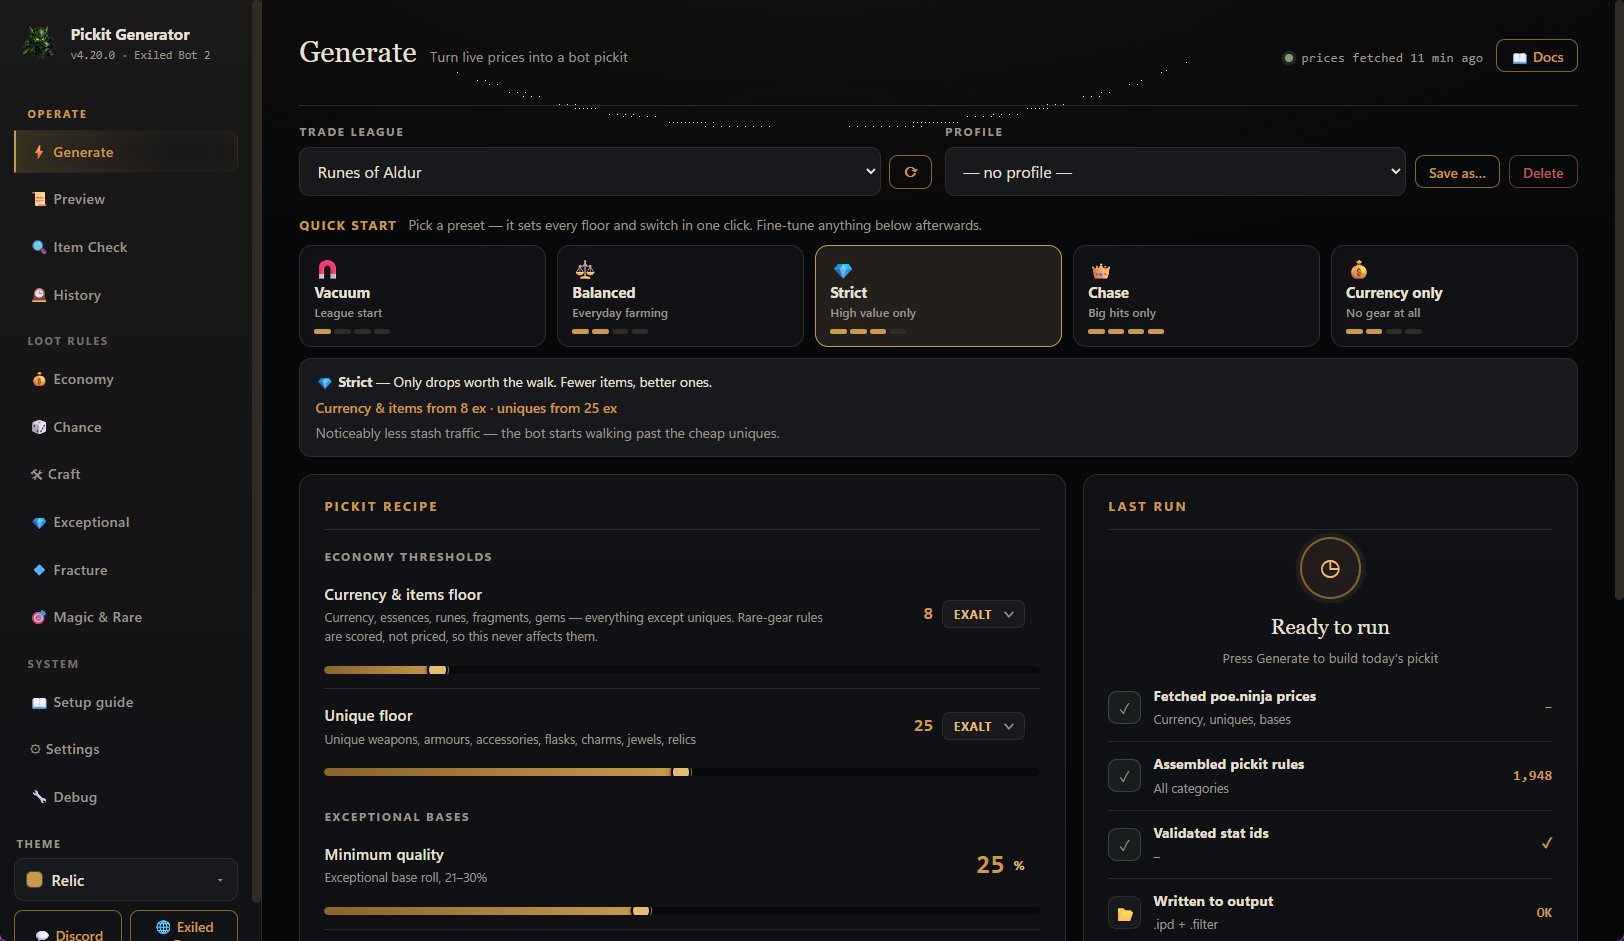
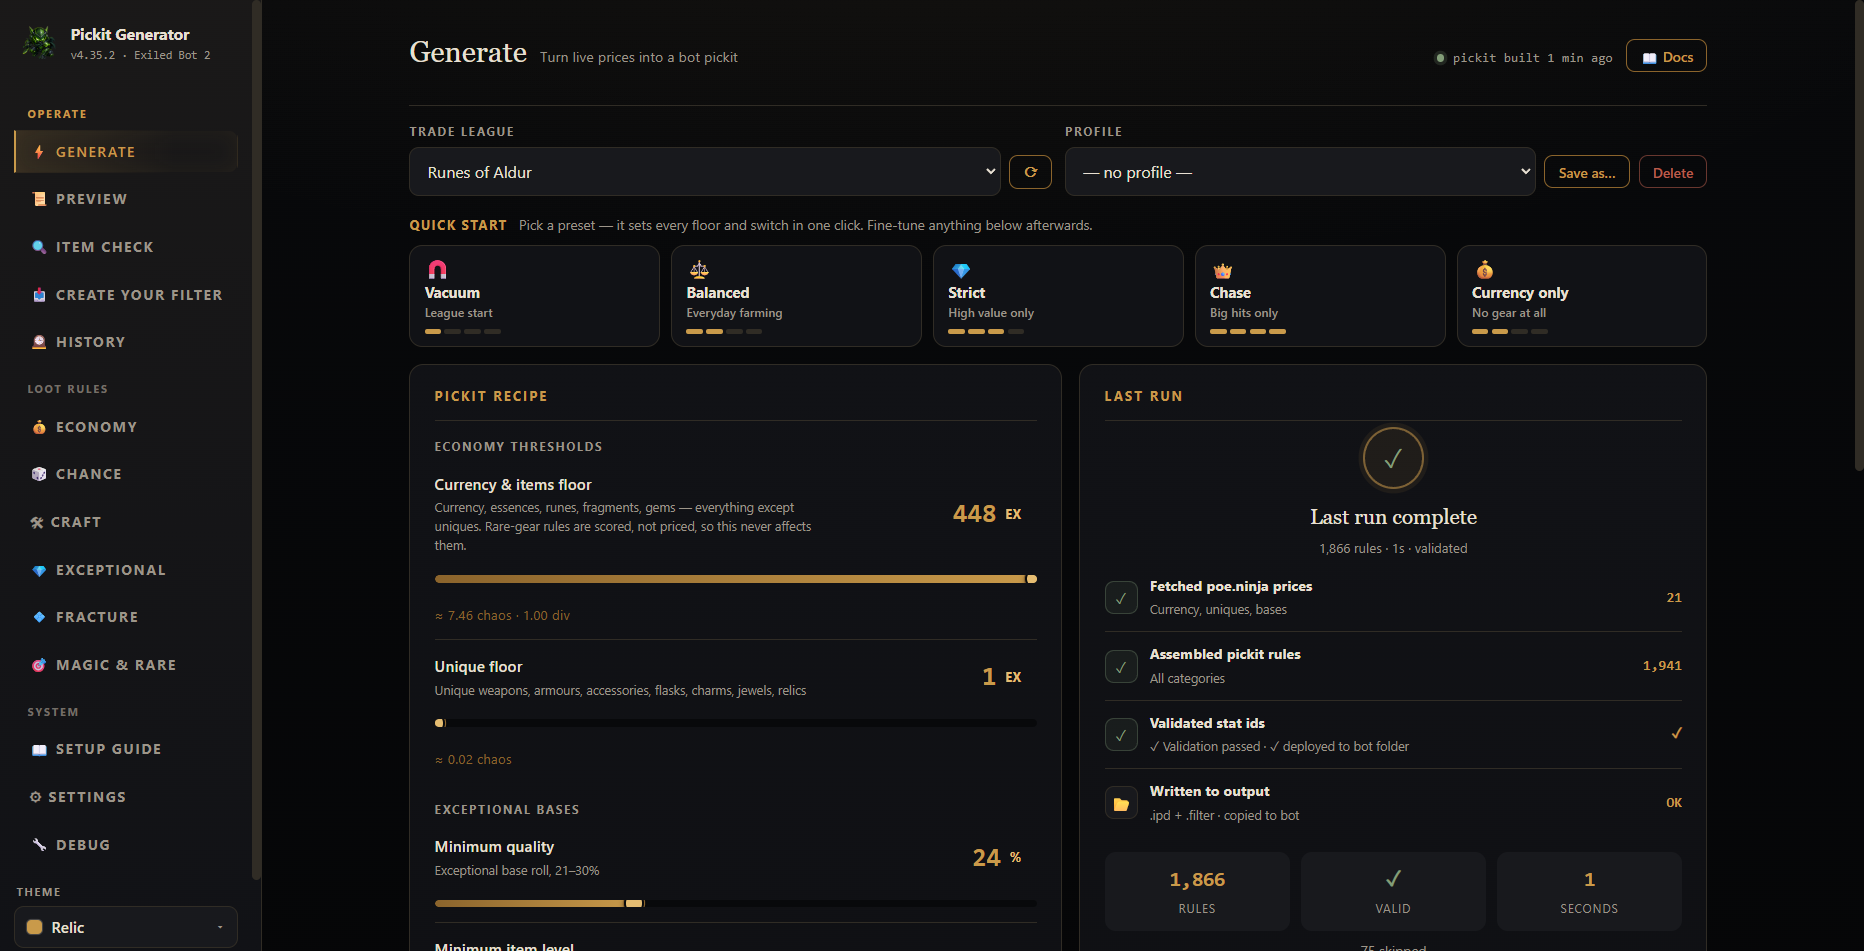
site: hero photo is now a real v4.35.2 capture (was v4.20.0) - shows Create your filter tab + live divine rate

diff --git a/docs/index.html b/docs/index.html
@@ -299,8 +299,8 @@ footer{padding:42px 0;color:var(--faint);font-size:13px}.footer-grid{display:fle
 
       <div class="product-stage reveal">
         <div class="product-frame">
-          <div class="frame-bar"><span class="lights"><i></i><i></i><i></i></span><span>Real app capture &middot; earlier release</span><span class="live"><span class="dot"></span> Generate</span></div>
-          <div class="screen-clip"><a class="screen-zoom" href="shots/01-generate.png" target="_blank" rel="noopener" aria-label="View the real Generate screenshot"><img src="shots/01-generate.png" width="1624" height="941" fetchpriority="high" alt="Generate tab with the league picker, five quick-start presets, exalt value floors and the last-run checklist"></a></div>
+          <div class="frame-bar"><span class="lights"><i></i><i></i><i></i></span><span>Real app capture &middot; current release</span><span class="live"><span class="dot"></span> Generate</span></div>
+          <div class="screen-clip"><a class="screen-zoom" href="shots/01-generate.png" target="_blank" rel="noopener" aria-label="View the real Generate screenshot"><img src="shots/01-generate.png" width="1864" height="951" fetchpriority="high" alt="Generate tab with the league picker, five quick-start presets, exalt value floors and the last-run checklist"></a></div>
         </div>
       </div>
     </div>
@@ -339,7 +339,7 @@ footer{padding:42px 0;color:var(--faint);font-size:13px}.footer-grid{display:fle
         <picture class="tour-picture">
           <source media="(prefers-reduced-motion: reduce)" srcset="shots/01-generate.png" type="image/png">
           <source srcset="pickit-tour.webp" type="image/webp">
-          <img src="shots/01-generate.png" width="1624" height="941" loading="lazy" decoding="async" alt="Pickit Generator Workbench showing its Generate and configuration screens">
+          <img src="shots/01-generate.png" width="1864" height="951" loading="lazy" decoding="async" alt="Pickit Generator Workbench showing its Generate and configuration screens">
         </picture>
         <div class="tour-caption"><strong>Full-resolution real captures &middot; earlier release &middot; all 13 tabs</strong><span>Current navigation uses one clean uppercase type treatment &middot; <a href="shots/03-item-check.png" target="_blank" rel="noopener">view Item Check still</a></span></div>
       </div>